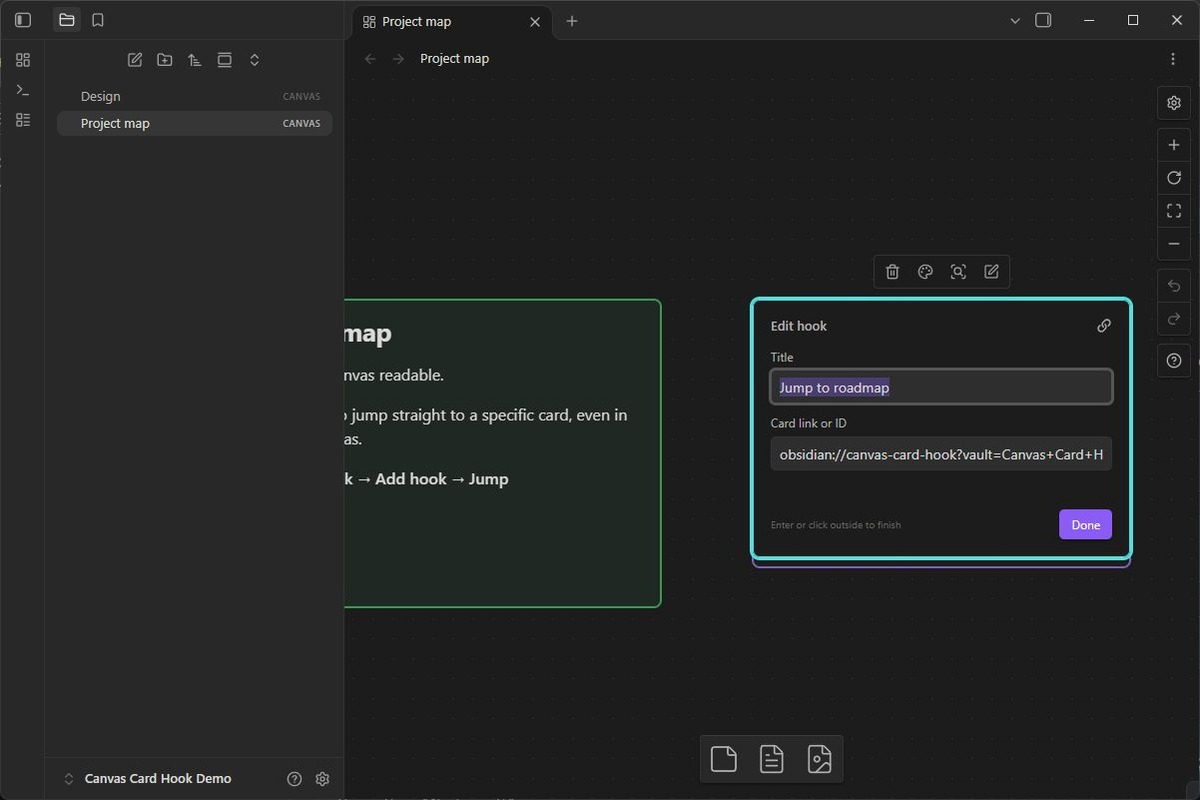
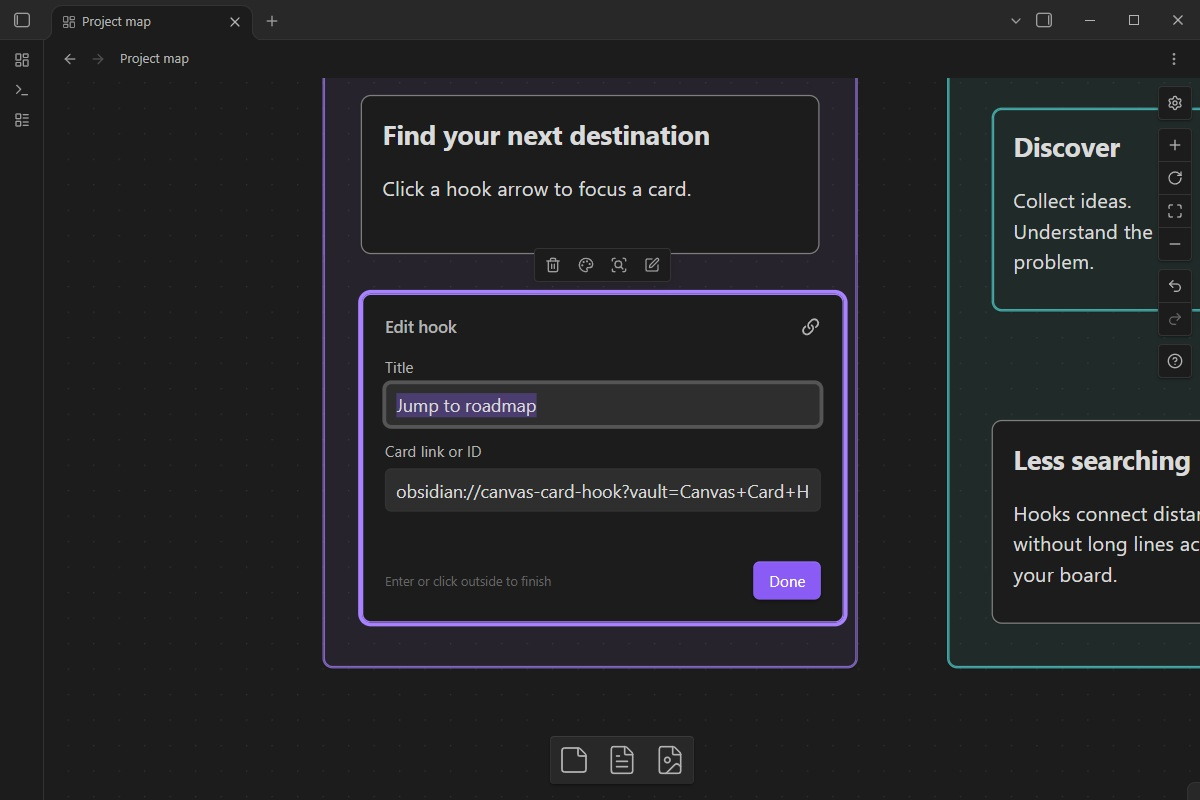
Refresh example screenshots and add an animated navigation demo

diff --git a/README.md b/README.md
@@ -6,6 +6,12 @@ Canvas Card Hook adds small, clickable navigation cards to Obsidian Canvas. Link
 
 ![Canvas Card Hook: card links and jump shortcuts](docs/images/overview.jpg)
 
+Watch a hook jump to a distant card in the same Canvas, then open a specific card in another Canvas in the same vault. The animated pointer and click highlights make each action visible.
+
+![Animated demonstration: click a hook to jump within a Canvas or between canvases in the same vault](docs/images/demo.gif)
+
+The screenshots and animation use a fictional example workspace with groups, connections, and three hook shortcuts.
+
 ## Features
 
 - **Add hook** in the native card context menu.
@@ -47,6 +53,8 @@ Double-click the hook body or use the native **Edit** action to change its title
 Copy the destination card link from **Canvas B**, then paste it into a hook in **Canvas A**. Both canvases must belong to the same vault. Clicking the hook opens or reveals Canvas B, selects the correct card, and applies native zoom to selection. An already-open destination Canvas is reused.
 
 For cross-canvas links, use **Copy card link** or **Ctrl+C**, rather than a bare card ID. A raw 16-character card ID is resolved only within the hook's own Canvas. Cross-vault navigation is not supported.
+
+![Design workspace in another Canvas in the same vault](docs/images/another-canvas.jpg)
 
 ## Compact cards and comfortable editing
 
